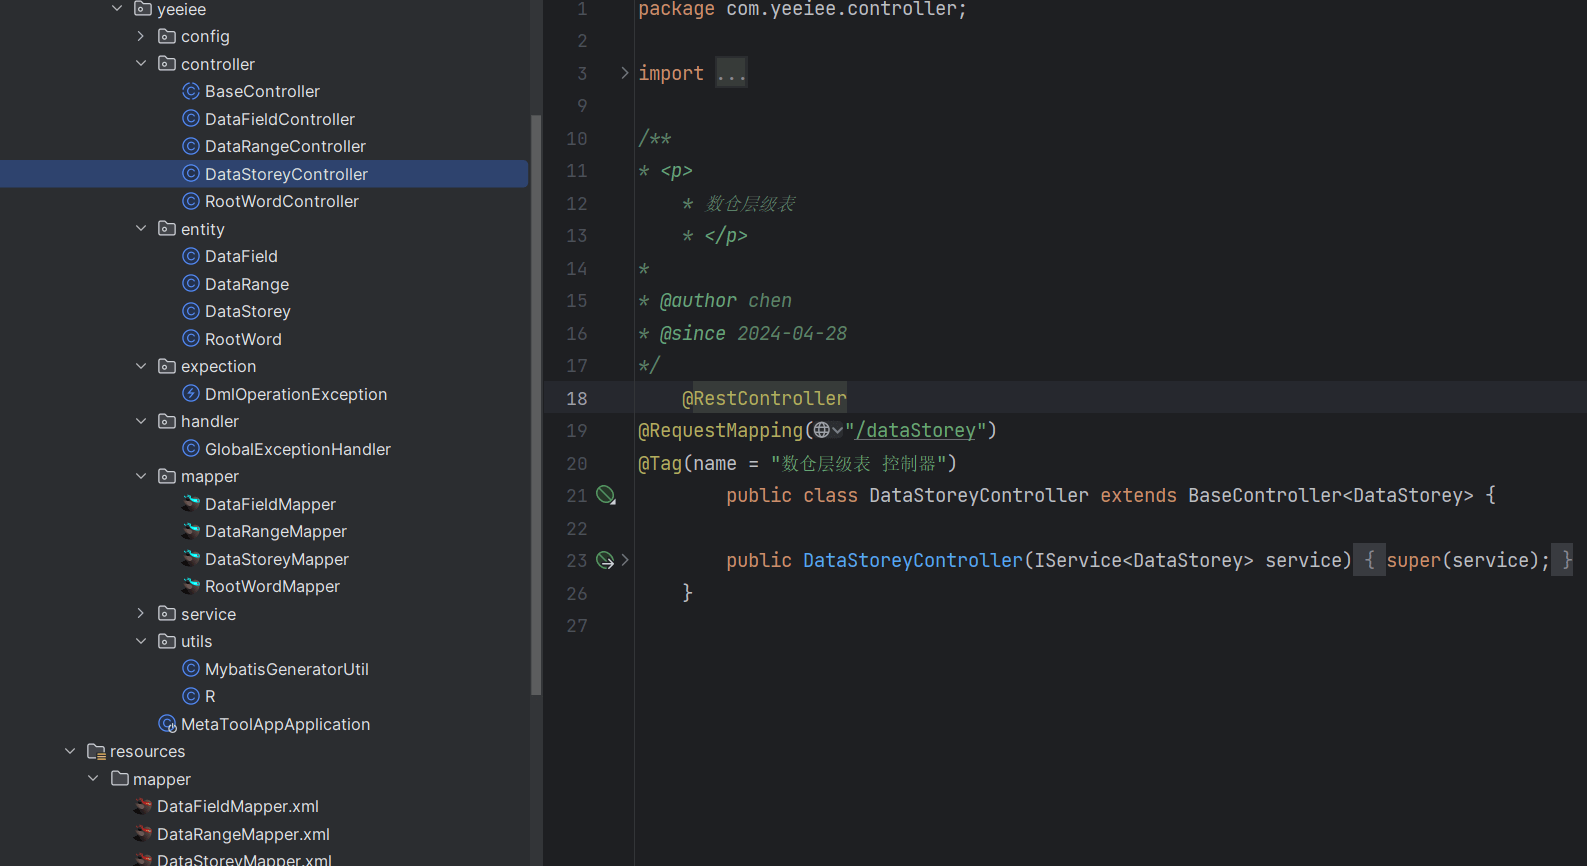
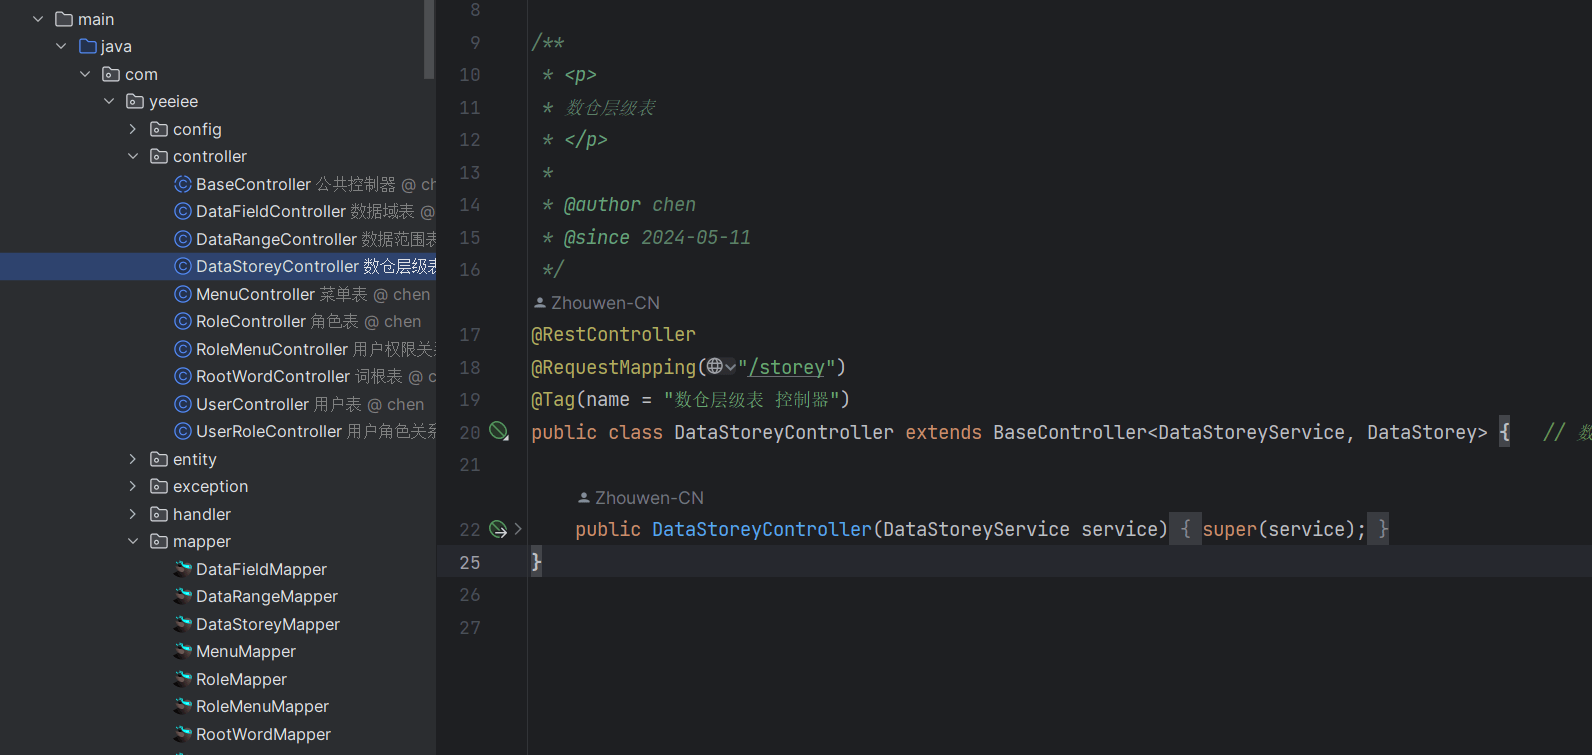
modify springboot doc

diff --git a/src/backend/springboot项目构建.md b/src/backend/springboot项目构建.md
@@ -264,15 +264,18 @@ mybatis-plus.configuration.log-impl=org.apache.ibatis.logging.stdout.StdOutImpl
 @Getter
 @Setter
 @Schema(title = "R", description = "统一响应对象")
-public class R<T> {
+public final class R<T> {
+
     @Schema(title = "是否成功")
     private boolean success;
+
     @Nullable
     @Schema(title = "数据")
     private T data;
-    @Nullable
+
     @Schema(title = "状态码")
     private int code;
+
     @Nullable
     @Schema(title = "消息")
     private String message;
@@ -289,12 +292,12 @@ public class R<T> {
         return new R<>(false, null, httpStatus.value(), httpStatus.getReasonPhrase());
     }
 
-    public static <T> R<T> error(int code, Exception e) {
-        return new R<>(false, null, code, e.getMessage());
-    }
-
     public static <T> R<T> error(HttpStatus httpStatus, Exception e) {
         return new R<>(false, null, httpStatus.value(), e.getMessage());
+    }
+
+    public static <T> R<T> error(HttpStatus httpStatus, String message) {
+        return new R<>(false, null, httpStatus.value(), message);
     }
 }
 ```
@@ -336,16 +339,16 @@ public class GlobalExceptionHandler {
 :::details BaseController.java
 
 ```java
-public abstract class BaseController<T> {
-    protected IService<T> service;
+public abstract class BaseController<S extends IService<D>, D> {
+    protected S service;
 
-    public BaseController(IService<T> service) {
+    public BaseController(S service) {
         this.service = service;
     }
 
     @Operation(summary = "分页查询")
     @GetMapping("/{size}/{current}")
-    public R<Page<T>> page(@PathVariable("size") @Parameter(description = "页面大小") Integer size,
+    public R<Page<D>> page(@PathVariable("size") @Parameter(description = "页面大小") Integer size,
                            @PathVariable("current") @Parameter(description = "当前页面") Integer current) {
         val page = service.page(new Page<>(current, size), new QueryWrapper<>());
         return R.ok(page);
@@ -353,21 +356,21 @@ public abstract class BaseController<T> {
 
     @Operation(summary = "查询所有")
     @GetMapping("/")
-    public R<List<T>> getList() {
+    public R<List<D>> getList() {
         val list = service.list();
         return R.ok(list);
     }
 
     @Operation(summary = "按照id查询")
     @GetMapping("/{id}")
-    public R<T> getById(@PathVariable("id") Long id) {
+    public R<D> getById(@PathVariable("id") Long id) {
         val one = service.getById(id);
         return R.ok(one);
     }
 
     @Operation(summary = "按照id删除")
     @DeleteMapping("/{id}")
-    public R<T> removeById(@PathVariable("id") Long id) {
+    public R<D> removeById(@PathVariable("id") Long id) {
         val status = service.removeById(id);
         if (!status) {
             throw new DmlOperationException("删除失败【id】：" + id);
@@ -377,7 +380,7 @@ public abstract class BaseController<T> {
 
     @Operation(summary = "新增")
     @PostMapping("/")
-    public R<T> save(@RequestBody T entity) {
+    public R<D> save(@RequestBody D entity) {
         val status = service.save(entity);
         if (!status) {
             throw new DmlOperationException("新增失败【entity】：" + entity);
@@ -387,7 +390,7 @@ public abstract class BaseController<T> {
 
     @Operation(summary = "更新")
     @PutMapping("/")
-    public R<T> update(@RequestBody T entity) {
+    public R<D> update(@RequestBody D entity) {
         val status = service.updateById(entity);
         if (!status) {
             throw new DmlOperationException("更新失败【entity】：" + entity);
@@ -397,7 +400,7 @@ public abstract class BaseController<T> {
 
     @Operation(summary = "新增或者更新")
     @PostMapping("/save")
-    public R<T> saveOrUpdate(@RequestBody T entity) {
+    public R<D> saveOrUpdate(@RequestBody D entity) {
         val status = service.saveOrUpdate(entity);
         if (!status) {
             throw new DmlOperationException("upsert失败【entity】：" + entity);
@@ -425,11 +428,11 @@ public abstract class BaseController<T> {
 
 @tab controller.java.ftl
 
-```freemarker
+```
 package ${package.Controller};
 
-import com.baomidou.mybatisplus.extension.service.IService;
 import ${package.Entity}.${entity};
+import ${package.Service}.${table.serviceName};
 import io.swagger.v3.oas.annotations.tags.Tag;
 import org.springframework.web.bind.annotation.RequestMapping;
 <#if restControllerStyle>
@@ -460,9 +463,9 @@ import org.springframework.web.bind.annotation.RequestMapping;
     class ${table.controllerName}<#if superControllerClass??> : ${superControllerClass}()</#if>
 <#else>
     <#if superControllerClass??>
-        public class ${table.controllerName} extends ${superControllerClass}<${entity}> {
+        public class ${table.controllerName} extends ${superControllerClass}<${table.serviceName},${entity}> {
 
-        public ${table.controllerName}(IService<${entity}> service) {
+        public ${table.controllerName}(${table.serviceName} service) {
         super(service);
         }
     <#else>
@@ -474,7 +477,7 @@ import org.springframework.web.bind.annotation.RequestMapping;
 
 @tab entity.java.ftl
 
-```freemarker
+```
 package ${package.Entity};
 
 <#list table.importPackages as pkg>
@@ -727,7 +730,9 @@ public class MybatisGeneratorUtil {
 
 重新生成代码，是否重写可以在代码生成工具类里面修改
 
-![修改模板文件后](./images/Snipaste_2024-04-28_12-27-28.png)
+![生成的Controller](./images/Snipaste_2024-04-28_12-27-28.png)
+
+![生成的Entity](./images/Snipaste_2024-05-11_09-18-34.png)
 
 ::: important
 可以看到通过修改模板文件的方式基本实现了需求
@@ -873,7 +878,7 @@ public class MetaToolAppApplication {
 
 一件生成多张表的增删改查
 
-![generator tables](./images/Snipaste_2024-04-28_13-16-05.png)
+![generator database](./images/Snipaste_2024-04-28_13-16-05.png)
 
 查看 swagger ui
 
